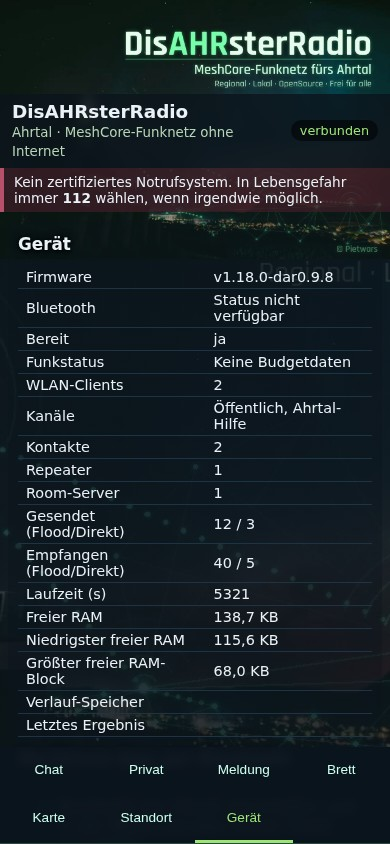
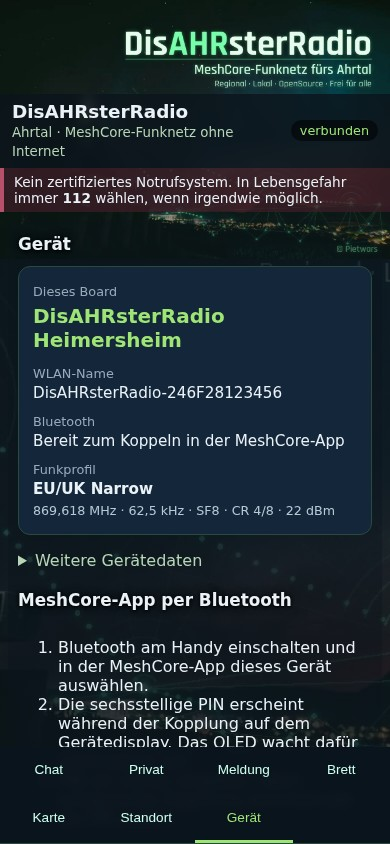
Publish verified 0.9.10 web flasher and device overview preview

Changed region(s): [[0.0308, 0.3081, 0.9538, 0.8934]]

diff --git a/docs/flasher/index.html b/docs/flasher/index.html
@@ -1,6 +1,6 @@
 <!doctype html>
 <html lang="de"><head><meta charset="utf-8"><meta name="viewport" content="width=device-width,initial-scale=1">
-<title>DisAHRsterRadio-MeshCore · Web-Flasher 0.9.9 (T-Deck Plus, T-Watch S3, T3-S3 SX1262)</title>
+<title>DisAHRsterRadio-MeshCore · Web-Flasher 0.9.10 (T-Deck Plus, T-Watch S3, T3-S3 SX1262)</title>
 <script type="module" src="https://unpkg.com/esp-web-tools@10.4.0/dist/web/install-button.js?module"></script>
 <style>
 body{margin:0;background:#07130f;color:#e8f0e4;font:16px/1.5 system-ui,"Noto Sans",sans-serif}
@@ -18,7 +18,7 @@ button[data-prepare],esp-web-install-button button[slot=activate]{border:0;borde
 li{margin:4px 0}
 </style></head><body><main>
 <h1>Dis<span>AHR</span>sterRadio MeshCore</h1>
-<p><b>Web-Flasher · Version 0.9.9 · LILYGO T-Deck Plus, T-Watch S3 und T3-S3 SX1262</b> (ESP32-S3)</p>
+<p><b>Web-Flasher · Version 0.9.10 · LILYGO T-Deck Plus, T-Watch S3 und T3-S3 SX1262</b> (ESP32-S3)</p>
 <p>Pro Gerät gibt es zwei Wege: <b>Update</b> (Standard, Einstellungen bleiben) und <b>Neuinstallation</b> (löscht alles). T-Deck: WLAN/BLE oder Standalone bewusst wählen. Nur das passende Gerät anschließen und den Knopf für genau dieses Gerät verwenden.</p>
 <div class="card">
 <h2>LILYGO T-Deck Plus</h2>
@@ -30,11 +30,11 @@ li{margin:4px 0}
 <button class="b-upd" data-prepare="manifest-tdeck-update.json" aria-describedby="check-tdeck-update">Update-Datei laden und prüfen</button>
 <p id="check-tdeck-update" role="status" aria-live="polite"></p>
 <esp-web-install-button hidden data-manifest="manifest-tdeck-update.json" manifest="manifest-tdeck-update.json">
- <button disabled slot="activate" class="b-upd">Update auf 0.9.9 – LILYGO T-Deck Plus (Einstellungen bleiben)</button>
+ <button disabled slot="activate" class="b-upd">Update auf 0.9.10 – LILYGO T-Deck Plus (Einstellungen bleiben)</button>
  <span slot="unsupported">Dieser Browser kann keine USB-Geräte ansprechen (Web Serial fehlt). Bitte Chrome oder Edge am Computer verwenden – oder manuell flashen (siehe unten).</span>
  <span slot="not-allowed">Der Flasher braucht eine sichere Verbindung (https).</span>
 </esp-web-install-button>
-<p class="sha">Datei <code>DisAHRsterRadio-MeshCore-0.9.9-LilyGo_TDeck-firmware.bin</code>, SHA-256 <code>19dff249e3ba592c696ea863196a75b39c191163da7225c7876fd92d59137dd2</code></p>
+<p class="sha">Datei <code>DisAHRsterRadio-MeshCore-0.9.10-LilyGo_TDeck-firmware.bin</code>, SHA-256 <code>f1c887bbb65417bbfb2a84cb168f1a4b82c067f2d413e2b7d314749f740e6ac5</code></p>
 </div>
 <div class="mode neu">
 <h3>Neuinstallation – alles löschen</h3>
@@ -46,9 +46,9 @@ li{margin:4px 0}
  <span slot="unsupported">Dieser Browser kann keine USB-Geräte ansprechen (Web Serial fehlt). Bitte Chrome oder Edge am Computer verwenden.</span>
  <span slot="not-allowed">Der Flasher braucht eine sichere Verbindung (https).</span>
 </esp-web-install-button>
-<p class="sha">Datei <code>DisAHRsterRadio-MeshCore-0.9.9-LilyGo_TDeck-factory.bin</code>, SHA-256 <code>65f7845b3d794567aa002ec14fc16235b0ce1674c4b92338c2e6e6a3b829f75e</code></p>
+<p class="sha">Datei <code>DisAHRsterRadio-MeshCore-0.9.10-LilyGo_TDeck-factory.bin</code>, SHA-256 <code>dcde3b8e2e359511bbbb03266c39faa6a5fc67b35dffaa83f00e78005b02f06b</code></p>
 </div>
-<p class="sha">Beide Dateien aus <code>DisAHRsterRadio-MeshCore-0.9.9-LilyGo_TDeck.zip</code> im <a href="https://github.com/Pietwars/DisAHRsterRadio-MeshCore/releases/tag/v0.9.9">Release v0.9.9</a>; SHA-256 wird beim Bereitstellen und vor der Installation im Browser geprüft. Eine Prüfsumme bestätigt keine Herausgeberidentität.</p>
+<p class="sha">Beide Dateien aus <code>DisAHRsterRadio-MeshCore-0.9.10-LilyGo_TDeck.zip</code> im <a href="https://github.com/Pietwars/DisAHRsterRadio-MeshCore/releases/tag/v0.9.10">Release v0.9.10</a>; SHA-256 wird beim Bereitstellen und vor der Installation im Browser geprüft. Eine Prüfsumme bestätigt keine Herausgeberidentität.</p>
 </div>
 <div class="card">
 <h2>LILYGO T-Watch S3</h2>
@@ -60,11 +60,11 @@ li{margin:4px 0}
 <button class="b-upd" data-prepare="manifest-twatch-update.json" aria-describedby="check-twatch-update">Update-Datei laden und prüfen</button>
 <p id="check-twatch-update" role="status" aria-live="polite"></p>
 <esp-web-install-button hidden data-manifest="manifest-twatch-update.json" manifest="manifest-twatch-update.json">
- <button disabled slot="activate" class="b-upd">Update auf 0.9.9 – LILYGO T-Watch S3 (Einstellungen bleiben)</button>
+ <button disabled slot="activate" class="b-upd">Update auf 0.9.10 – LILYGO T-Watch S3 (Einstellungen bleiben)</button>
  <span slot="unsupported">Dieser Browser kann keine USB-Geräte ansprechen (Web Serial fehlt). Bitte Chrome oder Edge am Computer verwenden – oder manuell flashen (siehe unten).</span>
  <span slot="not-allowed">Der Flasher braucht eine sichere Verbindung (https).</span>
 </esp-web-install-button>
-<p class="sha">Datei <code>DisAHRsterRadio-MeshCore-0.9.9-LilyGo_TWatchS3-firmware.bin</code>, SHA-256 <code>96189a79d8077b996a66b5bc97aca59bd2103c2db7416ffeb663980c32c80024</code></p>
+<p class="sha">Datei <code>DisAHRsterRadio-MeshCore-0.9.10-LilyGo_TWatchS3-firmware.bin</code>, SHA-256 <code>c3889e5c336860151354584040d2cf55c275c26e1da24b8a604023871333e936</code></p>
 </div>
 <div class="mode neu">
 <h3>Neuinstallation – alles löschen</h3>
@@ -76,9 +76,9 @@ li{margin:4px 0}
  <span slot="unsupported">Dieser Browser kann keine USB-Geräte ansprechen (Web Serial fehlt). Bitte Chrome oder Edge am Computer verwenden.</span>
  <span slot="not-allowed">Der Flasher braucht eine sichere Verbindung (https).</span>
 </esp-web-install-button>
-<p class="sha">Datei <code>DisAHRsterRadio-MeshCore-0.9.9-LilyGo_TWatchS3-factory.bin</code>, SHA-256 <code>7e91842b0330fe2e6618ecfc7123dfefe3179cc8a2d1156ea8f2b7a1f2178e7b</code></p>
+<p class="sha">Datei <code>DisAHRsterRadio-MeshCore-0.9.10-LilyGo_TWatchS3-factory.bin</code>, SHA-256 <code>f1b55909c14ddb036e1c383554c2e0751911e8a96d13e97fe27acee91c7d5283</code></p>
 </div>
-<p class="sha">Beide Dateien aus <code>DisAHRsterRadio-MeshCore-0.9.9-LilyGo_TWatchS3.zip</code> im <a href="https://github.com/Pietwars/DisAHRsterRadio-MeshCore/releases/tag/v0.9.9">Release v0.9.9</a>; SHA-256 wird beim Bereitstellen und vor der Installation im Browser geprüft. Eine Prüfsumme bestätigt keine Herausgeberidentität.</p>
+<p class="sha">Beide Dateien aus <code>DisAHRsterRadio-MeshCore-0.9.10-LilyGo_TWatchS3.zip</code> im <a href="https://github.com/Pietwars/DisAHRsterRadio-MeshCore/releases/tag/v0.9.10">Release v0.9.10</a>; SHA-256 wird beim Bereitstellen und vor der Installation im Browser geprüft. Eine Prüfsumme bestätigt keine Herausgeberidentität.</p>
 </div>
 <div class="card">
 <h2>LILYGO T-Deck Plus Standalone</h2>
@@ -90,11 +90,11 @@ li{margin:4px 0}
 <button class="b-upd" data-prepare="manifest-tdeck-standalone-update.json" aria-describedby="check-tdeck-standalone-update">Update-Datei laden und prüfen</button>
 <p id="check-tdeck-standalone-update" role="status" aria-live="polite"></p>
 <esp-web-install-button hidden data-manifest="manifest-tdeck-standalone-update.json" manifest="manifest-tdeck-standalone-update.json">
- <button disabled slot="activate" class="b-upd">Update auf 0.9.9 – LILYGO T-Deck Plus Standalone (Einstellungen bleiben)</button>
+ <button disabled slot="activate" class="b-upd">Update auf 0.9.10 – LILYGO T-Deck Plus Standalone (Einstellungen bleiben)</button>
  <span slot="unsupported">Dieser Browser kann keine USB-Geräte ansprechen (Web Serial fehlt). Bitte Chrome oder Edge am Computer verwenden – oder manuell flashen (siehe unten).</span>
  <span slot="not-allowed">Der Flasher braucht eine sichere Verbindung (https).</span>
 </esp-web-install-button>
-<p class="sha">Datei <code>firmware.bin</code>, SHA-256 <code>bf59bf276fc72205e35373426bb1afbd37973611bf0df1eec08732a7494362e9</code></p>
+<p class="sha">Datei <code>firmware.bin</code>, SHA-256 <code>676836a9379b19cec6179ca0f3ceb3e1d193193588bf87bf1a1ca84a8bb73714</code></p>
 </div>
 <div class="mode neu">
 <h3>Neuinstallation – alles löschen</h3>
@@ -106,9 +106,9 @@ li{margin:4px 0}
  <span slot="unsupported">Dieser Browser kann keine USB-Geräte ansprechen (Web Serial fehlt). Bitte Chrome oder Edge am Computer verwenden.</span>
  <span slot="not-allowed">Der Flasher braucht eine sichere Verbindung (https).</span>
 </esp-web-install-button>
-<p class="sha">Datei <code>factory.bin</code>, SHA-256 <code>503eae97c6edfc24d39cec3c982ce27ceb0a6f84a6148a11ef29f0567fb1aaf9</code></p>
+<p class="sha">Datei <code>factory.bin</code>, SHA-256 <code>4756b17fcee28d5257329b4ce22d0206e75cec9dc69b496bcb095d4ea26c30b6</code></p>
 </div>
-<p class="sha">Beide Dateien aus <code>DisAHRsterRadio-MeshCore-0.9.9-LilyGo_TDeck_standalone-test6.zip</code> im <a href="https://github.com/Pietwars/DisAHRsterRadio-MeshCore/releases/tag/v0.9.9">Release v0.9.9</a>; SHA-256 wird beim Bereitstellen und vor der Installation im Browser geprüft. Eine Prüfsumme bestätigt keine Herausgeberidentität.</p>
+<p class="sha">Beide Dateien aus <code>DisAHRsterRadio-MeshCore-0.9.10-LilyGo_TDeck_standalone-test6.zip</code> im <a href="https://github.com/Pietwars/DisAHRsterRadio-MeshCore/releases/tag/v0.9.10">Release v0.9.10</a>; SHA-256 wird beim Bereitstellen und vor der Installation im Browser geprüft. Eine Prüfsumme bestätigt keine Herausgeberidentität.</p>
 </div>
 <div class="card">
 <h2>LILYGO T3-S3 v1.3 SX1262 · 868 MHz</h2>
@@ -120,11 +120,11 @@ li{margin:4px 0}
 <button class="b-upd" data-prepare="manifest-t3s3-sx1262-update.json" aria-describedby="check-t3s3-sx1262-update">Update-Datei laden und prüfen</button>
 <p id="check-t3s3-sx1262-update" role="status" aria-live="polite"></p>
 <esp-web-install-button hidden data-manifest="manifest-t3s3-sx1262-update.json" manifest="manifest-t3s3-sx1262-update.json">
- <button disabled slot="activate" class="b-upd">Update auf 0.9.9 – LILYGO T3-S3 v1.3 SX1262 · 868 MHz (Einstellungen bleiben)</button>
+ <button disabled slot="activate" class="b-upd">Update auf 0.9.10 – LILYGO T3-S3 v1.3 SX1262 · 868 MHz (Einstellungen bleiben)</button>
  <span slot="unsupported">Dieser Browser kann keine USB-Geräte ansprechen (Web Serial fehlt). Bitte Chrome oder Edge am Computer verwenden – oder manuell flashen (siehe unten).</span>
  <span slot="not-allowed">Der Flasher braucht eine sichere Verbindung (https).</span>
 </esp-web-install-button>
-<p class="sha">Datei <code>DisAHRsterRadio-MeshCore-0.9.9-LilyGo_T3S3_sx1262-firmware.bin</code>, SHA-256 <code>fd03519f3dc1624378eebabad910e4c5a6e1d52d6a2ae1eda91206fae542144b</code></p>
+<p class="sha">Datei <code>DisAHRsterRadio-MeshCore-0.9.10-LilyGo_T3S3_sx1262-firmware.bin</code>, SHA-256 <code>c6a9b3eb76ab548eaebadd7d40b1a48c7d1f5bf1e5b1d04cd063c8a231222f54</code></p>
 </div>
 <div class="mode neu">
 <h3>Neuinstallation – alles löschen</h3>
@@ -136,9 +136,9 @@ li{margin:4px 0}
  <span slot="unsupported">Dieser Browser kann keine USB-Geräte ansprechen (Web Serial fehlt). Bitte Chrome oder Edge am Computer verwenden.</span>
  <span slot="not-allowed">Der Flasher braucht eine sichere Verbindung (https).</span>
 </esp-web-install-button>
-<p class="sha">Datei <code>DisAHRsterRadio-MeshCore-0.9.9-LilyGo_T3S3_sx1262-factory.bin</code>, SHA-256 <code>1f663812c3e596176bee7c8c63ff102b173f7d188eefa2a8d931051e8a15d20d</code></p>
+<p class="sha">Datei <code>DisAHRsterRadio-MeshCore-0.9.10-LilyGo_T3S3_sx1262-factory.bin</code>, SHA-256 <code>d66bb87391f1be6c90923a68a82335c079ba105a647fe51e4736d20ba49a10cf</code></p>
 </div>
-<p class="sha">Beide Dateien aus <code>DisAHRsterRadio-MeshCore-0.9.9-LilyGo_T3S3_sx1262.zip</code> im <a href="https://github.com/Pietwars/DisAHRsterRadio-MeshCore/releases/tag/v0.9.9">Release v0.9.9</a>; SHA-256 wird beim Bereitstellen und vor der Installation im Browser geprüft. Eine Prüfsumme bestätigt keine Herausgeberidentität.</p>
+<p class="sha">Beide Dateien aus <code>DisAHRsterRadio-MeshCore-0.9.10-LilyGo_T3S3_sx1262.zip</code> im <a href="https://github.com/Pietwars/DisAHRsterRadio-MeshCore/releases/tag/v0.9.10">Release v0.9.10</a>; SHA-256 wird beim Bereitstellen und vor der Installation im Browser geprüft. Eine Prüfsumme bestätigt keine Herausgeberidentität.</p>
 </div>
 <h2>Kein Port zu sehen?</h2>
 <ul><li>Anderes USB-Kabel probieren (viele Kabel laden nur).</li>
@@ -151,11 +151,11 @@ li{margin:4px 0}
 <h2>Danach</h2>
 <p>Das Display zeigt das DisAHRsterRadio-Bild, die Akku-Zeile und den Knopf „Advert senden“. Am Handy das offene WLAN <code>DisAHRsterRadio-XXXXXX</code> wählen (ohne Passwort) und <b>http://192.168.4.1</b> öffnen. Bluetooth für die MeshCore-App mit <b>PIN-Kopplung</b> – die PIN steht während der Kopplung auf dem Display; bitte danach in der App eine eigene PIN setzen. Offenes, unverschlüsseltes WLAN: Jede Person in Reichweite kann mitlesen und senden.</p>
 <p>Weboberfläche und MeshCore-App teilen die Nachrichten: Empfangene Kanal- und Direktnachrichten erscheinen in beiden (auch wenn die App erst später verbunden wird), in der App gesendete Nachrichten stehen im Web-Verlauf. Im Web gesendete Nachrichten zeigt die App als empfangene Nachricht mit Markierung („&lt;Knotenname&gt; (Web)“ im Kanal, „[von mir über Web]“ bei Direktnachrichten) – das MeshCore-Protokoll kennt keine Meldung „von einem anderen Gerät gesendet“.</p>
-<p class="hint">Release 0.9.9: Der Betreiber bestätigt die Funktion des vorherigen T3-S3-OLED-Testpakets sowie frühere T-Deck-Tests. Die neu gebauten Release-Dateien benötigen eigene Gerätetests.</p>
-<p>Manuell flashen (esptool) und Einzelheiten: <a href="https://github.com/Pietwars/DisAHRsterRadio-MeshCore/blob/main/docs/FLASHEN.md">Anleitung „Flashen“</a> · <a href="https://github.com/Pietwars/DisAHRsterRadio-MeshCore/releases/tag/v0.9.9">Release v0.9.9</a>.</p>
+<p class="hint">Release 0.9.10: Der Betreiber bestätigt für 0.9.9 den Zwei-Board-Test mit Web und App, Nachrichten und Neustarts ohne beobachtete Abbrüche. Die neu gebauten Release-Dateien benötigen eigene Gerätetests.</p>
+<p>Manuell flashen (esptool) und Einzelheiten: <a href="https://github.com/Pietwars/DisAHRsterRadio-MeshCore/blob/main/docs/FLASHEN.md">Anleitung „Flashen“</a> · <a href="https://github.com/Pietwars/DisAHRsterRadio-MeshCore/releases/tag/v0.9.10">Release v0.9.10</a>.</p>
 <div class="warn"><b>Prototyp, kein zertifiziertes Notrufsystem.</b> Im Notfall immer 112.</div>
 <p style="font-size:13px"><a href="../">Live-Demo</a> · <a href="https://github.com/Pietwars/DisAHRsterRadio-MeshCore">Quellcode</a> · Flasher: <a href="https://github.com/esphome/esp-web-tools">ESP Web Tools</a> 10.4.0 (Apache-2.0)</p>
[2 lines of base64/hex data omitted]
 <script type="module">import {mountFlasher} from './integrity.mjs'; mountFlasher();</script>
 <noscript>JavaScript ist für Prüfsummenprüfung und USB-Installation erforderlich. Bitte die manuelle Flash-Anleitung verwenden.</noscript>
 </main></body></html>

diff --git a/tools/flasher-next/index.html b/tools/flasher-next/index.html
@@ -1,6 +1,6 @@
 <!doctype html>
 <html lang="de"><head><meta charset="utf-8"><meta name="viewport" content="width=device-width,initial-scale=1">
-<title>DisAHRsterRadio-MeshCore · Web-Flasher 0.9.9 (T-Deck Plus, T-Watch S3, T3-S3 SX1262)</title>
+<title>DisAHRsterRadio-MeshCore · Web-Flasher 0.9.10 (T-Deck Plus, T-Watch S3, T3-S3 SX1262)</title>
 <script type="module" src="https://unpkg.com/esp-web-tools@10.4.0/dist/web/install-button.js?module"></script>
 <style>
 body{margin:0;background:#07130f;color:#e8f0e4;font:16px/1.5 system-ui,"Noto Sans",sans-serif}
@@ -18,7 +18,7 @@ button[data-prepare],esp-web-install-button button[slot=activate]{border:0;borde
 li{margin:4px 0}
 </style></head><body><main>
 <h1>Dis<span>AHR</span>sterRadio MeshCore</h1>
-<p><b>Web-Flasher · Version 0.9.9 · LILYGO T-Deck Plus, T-Watch S3 und T3-S3 SX1262</b> (ESP32-S3)</p>
+<p><b>Web-Flasher · Version 0.9.10 · LILYGO T-Deck Plus, T-Watch S3 und T3-S3 SX1262</b> (ESP32-S3)</p>
 <p>Pro Gerät gibt es zwei Wege: <b>Update</b> (Standard, Einstellungen bleiben) und <b>Neuinstallation</b> (löscht alles). T-Deck: WLAN/BLE oder Standalone bewusst wählen. Nur das passende Gerät anschließen und den Knopf für genau dieses Gerät verwenden.</p>
 <div class="card">
 <h2>LILYGO T-Deck Plus</h2>
@@ -30,11 +30,11 @@ li{margin:4px 0}
 <button class="b-upd" data-prepare="manifest-tdeck-update.json" aria-describedby="check-tdeck-update">Update-Datei laden und prüfen</button>
 <p id="check-tdeck-update" role="status" aria-live="polite"></p>
 <esp-web-install-button hidden data-manifest="manifest-tdeck-update.json" manifest="manifest-tdeck-update.json">
- <button disabled slot="activate" class="b-upd">Update auf 0.9.9 – LILYGO T-Deck Plus (Einstellungen bleiben)</button>
+ <button disabled slot="activate" class="b-upd">Update auf 0.9.10 – LILYGO T-Deck Plus (Einstellungen bleiben)</button>
  <span slot="unsupported">Dieser Browser kann keine USB-Geräte ansprechen (Web Serial fehlt). Bitte Chrome oder Edge am Computer verwenden – oder manuell flashen (siehe unten).</span>
  <span slot="not-allowed">Der Flasher braucht eine sichere Verbindung (https).</span>
 </esp-web-install-button>
-<p class="sha">Datei <code>DisAHRsterRadio-MeshCore-0.9.9-LilyGo_TDeck-firmware.bin</code>, SHA-256 <code>19dff249e3ba592c696ea863196a75b39c191163da7225c7876fd92d59137dd2</code></p>
+<p class="sha">Datei <code>DisAHRsterRadio-MeshCore-0.9.10-LilyGo_TDeck-firmware.bin</code>, SHA-256 <code>f1c887bbb65417bbfb2a84cb168f1a4b82c067f2d413e2b7d314749f740e6ac5</code></p>
 </div>
 <div class="mode neu">
 <h3>Neuinstallation – alles löschen</h3>
@@ -46,9 +46,9 @@ li{margin:4px 0}
  <span slot="unsupported">Dieser Browser kann keine USB-Geräte ansprechen (Web Serial fehlt). Bitte Chrome oder Edge am Computer verwenden.</span>
  <span slot="not-allowed">Der Flasher braucht eine sichere Verbindung (https).</span>
 </esp-web-install-button>
-<p class="sha">Datei <code>DisAHRsterRadio-MeshCore-0.9.9-LilyGo_TDeck-factory.bin</code>, SHA-256 <code>65f7845b3d794567aa002ec14fc16235b0ce1674c4b92338c2e6e6a3b829f75e</code></p>
+<p class="sha">Datei <code>DisAHRsterRadio-MeshCore-0.9.10-LilyGo_TDeck-factory.bin</code>, SHA-256 <code>dcde3b8e2e359511bbbb03266c39faa6a5fc67b35dffaa83f00e78005b02f06b</code></p>
 </div>
-<p class="sha">Beide Dateien aus <code>DisAHRsterRadio-MeshCore-0.9.9-LilyGo_TDeck.zip</code> im <a href="https://github.com/Pietwars/DisAHRsterRadio-MeshCore/releases/tag/v0.9.9">Release v0.9.9</a>; SHA-256 wird beim Bereitstellen und vor der Installation im Browser geprüft. Eine Prüfsumme bestätigt keine Herausgeberidentität.</p>
+<p class="sha">Beide Dateien aus <code>DisAHRsterRadio-MeshCore-0.9.10-LilyGo_TDeck.zip</code> im <a href="https://github.com/Pietwars/DisAHRsterRadio-MeshCore/releases/tag/v0.9.10">Release v0.9.10</a>; SHA-256 wird beim Bereitstellen und vor der Installation im Browser geprüft. Eine Prüfsumme bestätigt keine Herausgeberidentität.</p>
 </div>
 <div class="card">
 <h2>LILYGO T-Watch S3</h2>
@@ -60,11 +60,11 @@ li{margin:4px 0}
 <button class="b-upd" data-prepare="manifest-twatch-update.json" aria-describedby="check-twatch-update">Update-Datei laden und prüfen</button>
 <p id="check-twatch-update" role="status" aria-live="polite"></p>
 <esp-web-install-button hidden data-manifest="manifest-twatch-update.json" manifest="manifest-twatch-update.json">
- <button disabled slot="activate" class="b-upd">Update auf 0.9.9 – LILYGO T-Watch S3 (Einstellungen bleiben)</button>
+ <button disabled slot="activate" class="b-upd">Update auf 0.9.10 – LILYGO T-Watch S3 (Einstellungen bleiben)</button>
  <span slot="unsupported">Dieser Browser kann keine USB-Geräte ansprechen (Web Serial fehlt). Bitte Chrome oder Edge am Computer verwenden – oder manuell flashen (siehe unten).</span>
  <span slot="not-allowed">Der Flasher braucht eine sichere Verbindung (https).</span>
 </esp-web-install-button>
-<p class="sha">Datei <code>DisAHRsterRadio-MeshCore-0.9.9-LilyGo_TWatchS3-firmware.bin</code>, SHA-256 <code>96189a79d8077b996a66b5bc97aca59bd2103c2db7416ffeb663980c32c80024</code></p>
+<p class="sha">Datei <code>DisAHRsterRadio-MeshCore-0.9.10-LilyGo_TWatchS3-firmware.bin</code>, SHA-256 <code>c3889e5c336860151354584040d2cf55c275c26e1da24b8a604023871333e936</code></p>
 </div>
 <div class="mode neu">
 <h3>Neuinstallation – alles löschen</h3>
@@ -76,9 +76,9 @@ li{margin:4px 0}
  <span slot="unsupported">Dieser Browser kann keine USB-Geräte ansprechen (Web Serial fehlt). Bitte Chrome oder Edge am Computer verwenden.</span>
  <span slot="not-allowed">Der Flasher braucht eine sichere Verbindung (https).</span>
 </esp-web-install-button>
-<p class="sha">Datei <code>DisAHRsterRadio-MeshCore-0.9.9-LilyGo_TWatchS3-factory.bin</code>, SHA-256 <code>7e91842b0330fe2e6618ecfc7123dfefe3179cc8a2d1156ea8f2b7a1f2178e7b</code></p>
+<p class="sha">Datei <code>DisAHRsterRadio-MeshCore-0.9.10-LilyGo_TWatchS3-factory.bin</code>, SHA-256 <code>f1b55909c14ddb036e1c383554c2e0751911e8a96d13e97fe27acee91c7d5283</code></p>
 </div>
-<p class="sha">Beide Dateien aus <code>DisAHRsterRadio-MeshCore-0.9.9-LilyGo_TWatchS3.zip</code> im <a href="https://github.com/Pietwars/DisAHRsterRadio-MeshCore/releases/tag/v0.9.9">Release v0.9.9</a>; SHA-256 wird beim Bereitstellen und vor der Installation im Browser geprüft. Eine Prüfsumme bestätigt keine Herausgeberidentität.</p>
+<p class="sha">Beide Dateien aus <code>DisAHRsterRadio-MeshCore-0.9.10-LilyGo_TWatchS3.zip</code> im <a href="https://github.com/Pietwars/DisAHRsterRadio-MeshCore/releases/tag/v0.9.10">Release v0.9.10</a>; SHA-256 wird beim Bereitstellen und vor der Installation im Browser geprüft. Eine Prüfsumme bestätigt keine Herausgeberidentität.</p>
 </div>
 <div class="card">
 <h2>LILYGO T-Deck Plus Standalone</h2>
@@ -90,11 +90,11 @@ li{margin:4px 0}
 <button class="b-upd" data-prepare="manifest-tdeck-standalone-update.json" aria-describedby="check-tdeck-standalone-update">Update-Datei laden und prüfen</button>
 <p id="check-tdeck-standalone-update" role="status" aria-live="polite"></p>
 <esp-web-install-button hidden data-manifest="manifest-tdeck-standalone-update.json" manifest="manifest-tdeck-standalone-update.json">
- <button disabled slot="activate" class="b-upd">Update auf 0.9.9 – LILYGO T-Deck Plus Standalone (Einstellungen bleiben)</button>
+ <button disabled slot="activate" class="b-upd">Update auf 0.9.10 – LILYGO T-Deck Plus Standalone (Einstellungen bleiben)</button>
  <span slot="unsupported">Dieser Browser kann keine USB-Geräte ansprechen (Web Serial fehlt). Bitte Chrome oder Edge am Computer verwenden – oder manuell flashen (siehe unten).</span>
  <span slot="not-allowed">Der Flasher braucht eine sichere Verbindung (https).</span>
 </esp-web-install-button>
-<p class="sha">Datei <code>firmware.bin</code>, SHA-256 <code>bf59bf276fc72205e35373426bb1afbd37973611bf0df1eec08732a7494362e9</code></p>
+<p class="sha">Datei <code>firmware.bin</code>, SHA-256 <code>676836a9379b19cec6179ca0f3ceb3e1d193193588bf87bf1a1ca84a8bb73714</code></p>
 </div>
 <div class="mode neu">
 <h3>Neuinstallation – alles löschen</h3>
@@ -106,9 +106,9 @@ li{margin:4px 0}
  <span slot="unsupported">Dieser Browser kann keine USB-Geräte ansprechen (Web Serial fehlt). Bitte Chrome oder Edge am Computer verwenden.</span>
  <span slot="not-allowed">Der Flasher braucht eine sichere Verbindung (https).</span>
 </esp-web-install-button>
-<p class="sha">Datei <code>factory.bin</code>, SHA-256 <code>503eae97c6edfc24d39cec3c982ce27ceb0a6f84a6148a11ef29f0567fb1aaf9</code></p>
+<p class="sha">Datei <code>factory.bin</code>, SHA-256 <code>4756b17fcee28d5257329b4ce22d0206e75cec9dc69b496bcb095d4ea26c30b6</code></p>
 </div>
-<p class="sha">Beide Dateien aus <code>DisAHRsterRadio-MeshCore-0.9.9-LilyGo_TDeck_standalone-test6.zip</code> im <a href="https://github.com/Pietwars/DisAHRsterRadio-MeshCore/releases/tag/v0.9.9">Release v0.9.9</a>; SHA-256 wird beim Bereitstellen und vor der Installation im Browser geprüft. Eine Prüfsumme bestätigt keine Herausgeberidentität.</p>
+<p class="sha">Beide Dateien aus <code>DisAHRsterRadio-MeshCore-0.9.10-LilyGo_TDeck_standalone-test6.zip</code> im <a href="https://github.com/Pietwars/DisAHRsterRadio-MeshCore/releases/tag/v0.9.10">Release v0.9.10</a>; SHA-256 wird beim Bereitstellen und vor der Installation im Browser geprüft. Eine Prüfsumme bestätigt keine Herausgeberidentität.</p>
 </div>
 <div class="card">
 <h2>LILYGO T3-S3 v1.3 SX1262 · 868 MHz</h2>
@@ -120,11 +120,11 @@ li{margin:4px 0}
 <button class="b-upd" data-prepare="manifest-t3s3-sx1262-update.json" aria-describedby="check-t3s3-sx1262-update">Update-Datei laden und prüfen</button>
 <p id="check-t3s3-sx1262-update" role="status" aria-live="polite"></p>
 <esp-web-install-button hidden data-manifest="manifest-t3s3-sx1262-update.json" manifest="manifest-t3s3-sx1262-update.json">
- <button disabled slot="activate" class="b-upd">Update auf 0.9.9 – LILYGO T3-S3 v1.3 SX1262 · 868 MHz (Einstellungen bleiben)</button>
+ <button disabled slot="activate" class="b-upd">Update auf 0.9.10 – LILYGO T3-S3 v1.3 SX1262 · 868 MHz (Einstellungen bleiben)</button>
  <span slot="unsupported">Dieser Browser kann keine USB-Geräte ansprechen (Web Serial fehlt). Bitte Chrome oder Edge am Computer verwenden – oder manuell flashen (siehe unten).</span>
  <span slot="not-allowed">Der Flasher braucht eine sichere Verbindung (https).</span>
 </esp-web-install-button>
-<p class="sha">Datei <code>DisAHRsterRadio-MeshCore-0.9.9-LilyGo_T3S3_sx1262-firmware.bin</code>, SHA-256 <code>fd03519f3dc1624378eebabad910e4c5a6e1d52d6a2ae1eda91206fae542144b</code></p>
+<p class="sha">Datei <code>DisAHRsterRadio-MeshCore-0.9.10-LilyGo_T3S3_sx1262-firmware.bin</code>, SHA-256 <code>c6a9b3eb76ab548eaebadd7d40b1a48c7d1f5bf1e5b1d04cd063c8a231222f54</code></p>
 </div>
 <div class="mode neu">
 <h3>Neuinstallation – alles löschen</h3>
@@ -136,9 +136,9 @@ li{margin:4px 0}
  <span slot="unsupported">Dieser Browser kann keine USB-Geräte ansprechen (Web Serial fehlt). Bitte Chrome oder Edge am Computer verwenden.</span>
  <span slot="not-allowed">Der Flasher braucht eine sichere Verbindung (https).</span>
 </esp-web-install-button>
-<p class="sha">Datei <code>DisAHRsterRadio-MeshCore-0.9.9-LilyGo_T3S3_sx1262-factory.bin</code>, SHA-256 <code>1f663812c3e596176bee7c8c63ff102b173f7d188eefa2a8d931051e8a15d20d</code></p>
+<p class="sha">Datei <code>DisAHRsterRadio-MeshCore-0.9.10-LilyGo_T3S3_sx1262-factory.bin</code>, SHA-256 <code>d66bb87391f1be6c90923a68a82335c079ba105a647fe51e4736d20ba49a10cf</code></p>
 </div>
-<p class="sha">Beide Dateien aus <code>DisAHRsterRadio-MeshCore-0.9.9-LilyGo_T3S3_sx1262.zip</code> im <a href="https://github.com/Pietwars/DisAHRsterRadio-MeshCore/releases/tag/v0.9.9">Release v0.9.9</a>; SHA-256 wird beim Bereitstellen und vor der Installation im Browser geprüft. Eine Prüfsumme bestätigt keine Herausgeberidentität.</p>
+<p class="sha">Beide Dateien aus <code>DisAHRsterRadio-MeshCore-0.9.10-LilyGo_T3S3_sx1262.zip</code> im <a href="https://github.com/Pietwars/DisAHRsterRadio-MeshCore/releases/tag/v0.9.10">Release v0.9.10</a>; SHA-256 wird beim Bereitstellen und vor der Installation im Browser geprüft. Eine Prüfsumme bestätigt keine Herausgeberidentität.</p>
 </div>
 <h2>Kein Port zu sehen?</h2>
 <ul><li>Anderes USB-Kabel probieren (viele Kabel laden nur).</li>
@@ -151,11 +151,11 @@ li{margin:4px 0}
 <h2>Danach</h2>
 <p>Das Display zeigt das DisAHRsterRadio-Bild, die Akku-Zeile und den Knopf „Advert senden“. Am Handy das offene WLAN <code>DisAHRsterRadio-XXXXXX</code> wählen (ohne Passwort) und <b>http://192.168.4.1</b> öffnen. Bluetooth für die MeshCore-App mit <b>PIN-Kopplung</b> – die PIN steht während der Kopplung auf dem Display; bitte danach in der App eine eigene PIN setzen. Offenes, unverschlüsseltes WLAN: Jede Person in Reichweite kann mitlesen und senden.</p>
 <p>Weboberfläche und MeshCore-App teilen die Nachrichten: Empfangene Kanal- und Direktnachrichten erscheinen in beiden (auch wenn die App erst später verbunden wird), in der App gesendete Nachrichten stehen im Web-Verlauf. Im Web gesendete Nachrichten zeigt die App als empfangene Nachricht mit Markierung („&lt;Knotenname&gt; (Web)“ im Kanal, „[von mir über Web]“ bei Direktnachrichten) – das MeshCore-Protokoll kennt keine Meldung „von einem anderen Gerät gesendet“.</p>
-<p class="hint">Release 0.9.9: Der Betreiber bestätigt die Funktion des vorherigen T3-S3-OLED-Testpakets sowie frühere T-Deck-Tests. Die neu gebauten Release-Dateien benötigen eigene Gerätetests.</p>
-<p>Manuell flashen (esptool) und Einzelheiten: <a href="https://github.com/Pietwars/DisAHRsterRadio-MeshCore/blob/main/docs/FLASHEN.md">Anleitung „Flashen“</a> · <a href="https://github.com/Pietwars/DisAHRsterRadio-MeshCore/releases/tag/v0.9.9">Release v0.9.9</a>.</p>
+<p class="hint">Release 0.9.10: Der Betreiber bestätigt für 0.9.9 den Zwei-Board-Test mit Web und App, Nachrichten und Neustarts ohne beobachtete Abbrüche. Die neu gebauten Release-Dateien benötigen eigene Gerätetests.</p>
+<p>Manuell flashen (esptool) und Einzelheiten: <a href="https://github.com/Pietwars/DisAHRsterRadio-MeshCore/blob/main/docs/FLASHEN.md">Anleitung „Flashen“</a> · <a href="https://github.com/Pietwars/DisAHRsterRadio-MeshCore/releases/tag/v0.9.10">Release v0.9.10</a>.</p>
 <div class="warn"><b>Prototyp, kein zertifiziertes Notrufsystem.</b> Im Notfall immer 112.</div>
 <p style="font-size:13px"><a href="../">Live-Demo</a> · <a href="https://github.com/Pietwars/DisAHRsterRadio-MeshCore">Quellcode</a> · Flasher: <a href="https://github.com/esphome/esp-web-tools">ESP Web Tools</a> 10.4.0 (Apache-2.0)</p>
[2 lines of base64/hex data omitted]
 <script type="module">import {mountFlasher} from './integrity.mjs'; mountFlasher();</script>
 <noscript>JavaScript ist für Prüfsummenprüfung und USB-Installation erforderlich. Bitte die manuelle Flash-Anleitung verwenden.</noscript>
 </main></body></html>

diff --git a/tools/flasher-next/aktualisieren.py b/tools/flasher-next/aktualisieren.py
@@ -44,7 +44,7 @@ def main(zips):
         for art, f in d['files'].items(): print(d['id'], art, f['member'].split('/')[-1], f['sha256'])
 
 def html(cfg, ver):
-    hardware_hint = f"{'Pre-Release' if '-' in ver else 'Release'} {ver}: Der Betreiber bestätigt die Funktion des vorherigen T3-S3-OLED-Testpakets sowie frühere T-Deck-Tests. Die neu gebauten Release-Dateien benötigen eigene Gerätetests."
+    hardware_hint = f"{'Pre-Release' if '-' in ver else 'Release'} {ver}: Der Betreiber bestätigt für 0.9.9 den Zwei-Board-Test mit Web und App, Nachrichten und Neustarts ohne beobachtete Abbrüche. Die neu gebauten Release-Dateien benötigen eigene Gerätetests."
     rel = f"https://github.com/{cfg['repo']}/releases/tag/{cfg['tag']}"
     karten = []
     for d in cfg['devices']:

diff --git a/README.md b/README.md
@@ -18,6 +18,10 @@ benötigt ihren eigenen Gerätetest.
 [Release v0.9.10](https://github.com/Pietwars/DisAHRsterRadio-MeshCore/releases/tag/v0.9.10) ·
 [Hardwarestatus und Bedienung](docs/RELEASE-0.9.10.md)
 
+<img src="docs/images/vorschau-info.jpg" width="250" alt="Geräteübersicht mit Name, WLAN, Bluetooth und Funkprofil">
+
+<sub>Vorschau mit simulierten Beispieldaten.</sub>
+
 ## Seit 0.9.9: Jedes Board bekommt seinen eigenen WLAN-Namen
 
 Mehrere Boards desselben Herstellers konnten bisher denselben WLAN-Namen
@@ -106,7 +110,7 @@ Privilegierte Web-Einstellungen sind im offenen HTTP-Portal gesperrt. Standalone
 
 **Weiterhin enthalten:** Akku-Anzeige am Gerät und automatische Flash-/Speicherprüfungen für alle drei WLAN/BLE-Release-Boards. Messwerte und offene Hardwaretests: [Flash- und RAM-Prüfung](docs/SPEICHER.md).
 
-**[Release v0.9.9](https://github.com/Pietwars/DisAHRsterRadio-MeshCore/releases/tag/v0.9.9)** vom 30.10.2026. Jedes Board erhält automatisch seinen eigenen stabilen WLAN-Namen. Das T3-S3-v1.3-Paket für SX1262 enthält die automatische OLED-Kopplungsanzeige. Nachrichten werden zwischen Weboberfläche und MeshCore-App geteilt. Der Standalone-Build bedient Chat, Privat, Meldung, Brett, Karte, Standort und Gerät direkt am T-Deck; er enthält kein WLAN/Webportal. [Hardwarestatus und Prüfungen](docs/RELEASE-0.9.9.md).
+**[Release v0.9.10](https://github.com/Pietwars/DisAHRsterRadio-MeshCore/releases/tag/v0.9.10)** vom 31.10.2026. Die Geräteübersicht zeigt Namen, WLAN, Bluetooth-Verbindung und Funkprofil auf einen Blick. Jedes Board erhält automatisch seinen eigenen stabilen WLAN-Namen. Das T3-S3-v1.3-Paket für SX1262 enthält die automatische OLED-Kopplungsanzeige. Nachrichten werden zwischen Weboberfläche und MeshCore-App geteilt. Der Standalone-Build bedient Chat, Privat, Meldung, Brett, Karte, Standort und Gerät direkt am T-Deck; er enthält kein WLAN/Webportal. [Hardwarestatus und Prüfungen](docs/RELEASE-0.9.10.md).
 
 [![Release](https://img.shields.io/github/v/release/Pietwars/DisAHRsterRadio-MeshCore?label=Release)](https://github.com/Pietwars/DisAHRsterRadio-MeshCore/releases/latest)
 [![Live-Demo](https://img.shields.io/badge/Live--Demo-online-2ea44f)](https://pietwars.github.io/DisAHRsterRadio-MeshCore/)
@@ -179,7 +183,7 @@ Jeder Advert ist ein **Flood-Advert**; danach steht kurz „Advert gesendet“ i
 Beim Koppeln mit der MeshCore-App wacht das OLED automatisch auf und zeigt
 die Geräte-PIN. [T3-S3-Anleitung und Hardwareprüfung](docs/T3-S3-V1.3.md).
 
-1. **Flashen:** das passende 0.9.10-ZIP oben herunterladen und nach seiner ANLEITUNG.md flashen. Der [Web-Flasher](https://pietwars.github.io/DisAHRsterRadio-MeshCore/flasher/) bietet nach erfolgreicher Veröffentlichung dieselben geprüften Release-Dateien für **T-Deck Plus WLAN/BLE**, **T-Deck Plus Standalone** und **T-Watch S3**. Variante ausdrücklich auswählen: Update schreibt nur die Firmware an **0x10000**, Neuinstallation schreibt das Factory-Abbild an **0x0** und löscht alle Daten. [Anleitung Flashen](docs/FLASHEN.md).
+1. **Flashen:** das passende 0.9.10-ZIP oben herunterladen und nach seiner ANLEITUNG.md flashen. Der [Web-Flasher](https://pietwars.github.io/DisAHRsterRadio-MeshCore/flasher/) bietet nach erfolgreicher Veröffentlichung dieselben geprüften Release-Dateien für **T-Deck Plus WLAN/BLE**, **T-Deck Plus Standalone**, **T-Watch S3** und **T3-S3 SX1262**. Variante ausdrücklich auswählen: Update schreibt nur die Firmware an **0x10000**, Neuinstallation schreibt das Factory-Abbild an **0x0** und löscht alle Daten. [Anleitung Flashen](docs/FLASHEN.md).
 2. **Verbinden:** Handy mit dem offenen WLAN `DisAHRsterRadio-XXXXXXXXXXXX` verbinden, **http://192.168.4.1** öffnen – kein Passwort, höchstens 4 Handys.
 3. **MeshCore-App (optional):** per Bluetooth koppeln; die PIN zeigt das Display nur während der Kopplung an. Danach in der App eine eigene PIN setzen. Details: [Offener Zugang](docs/OFFENER_ZUGANG.md)
 
